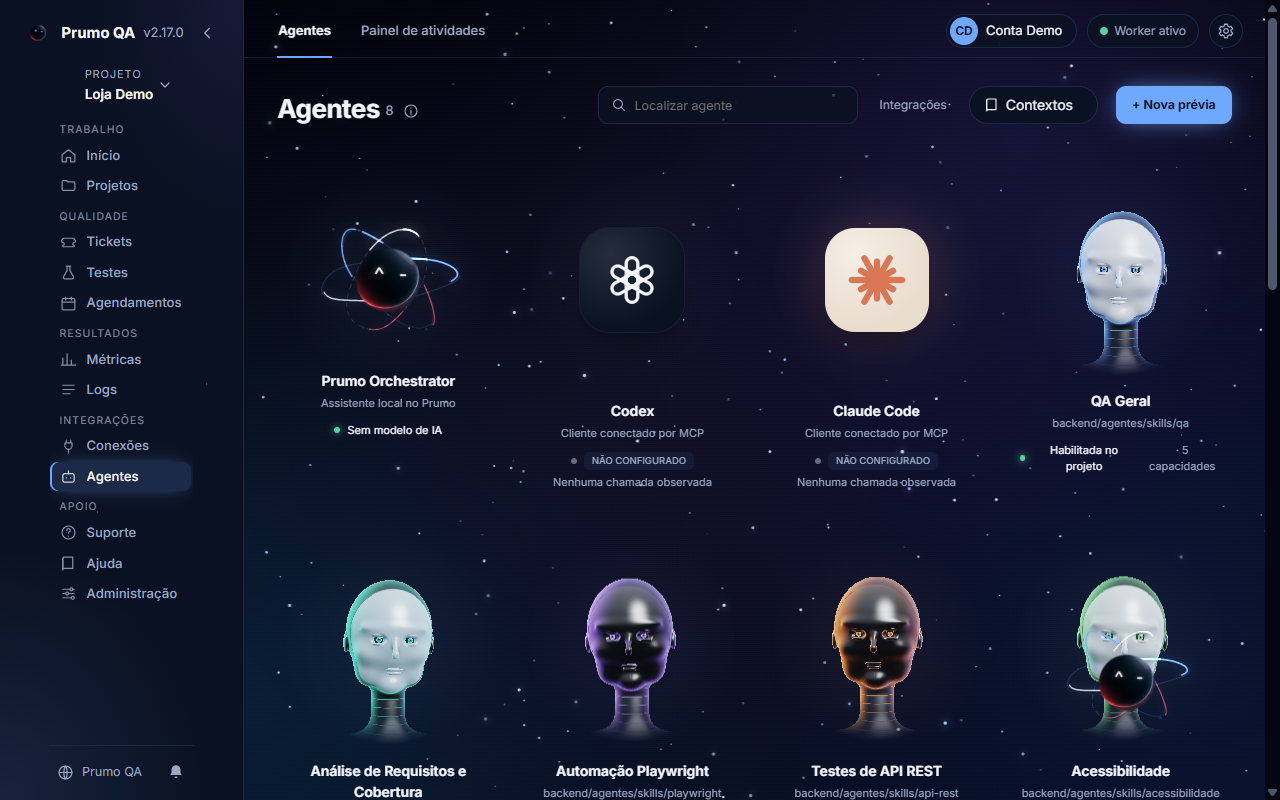
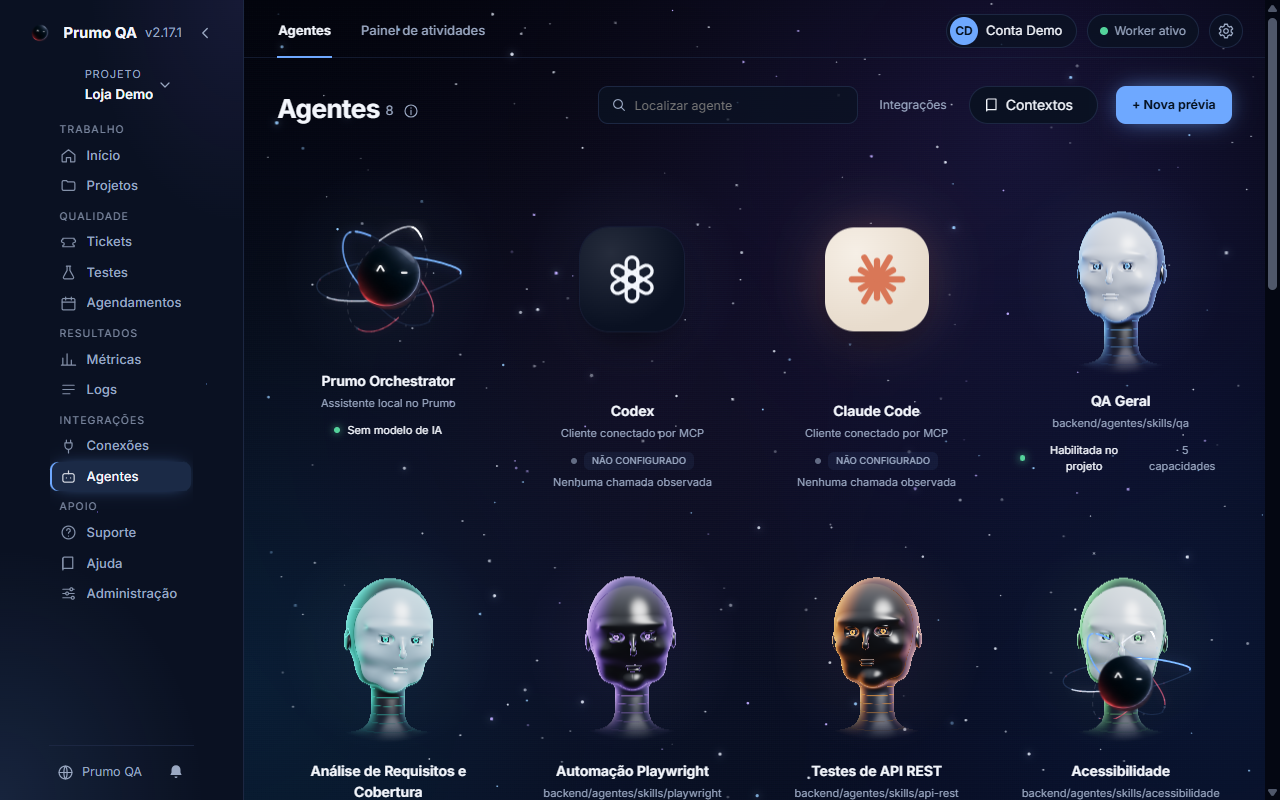
fix(2.17.1): publicação do site em fila, sem falhas nem cancelamentos
- site.yml: publicações em fila (sem cancelar a anterior); sem RENDER_DEPLOY_HOOK_URL falha na hora com o caminho da correção;
  a conferência aceita no ar um commit mais novo da main que contenha o esperado
- multiplataforma.yml: um único disparo do site depois de macOS e Linux
- Ações do CI em Node 24 (checkout v5, setup-node v5, upload-artifact v5, github-script v8)
- Versão, catálogo, RELEASE.md, capturas e site

diff --git a/docs/RELEASE.md b/docs/RELEASE.md
@@ -41,7 +41,7 @@ git push origin vX.Y.Z
 
 ### macOS e Linux (em paralelo ao Windows)
 
-`.github/workflows/multiplataforma.yml` roda na mesma tag, em máquinas macOS e Ubuntu: compila, roda os testes de plataforma (`testes/unitario/backend/aplicativo/multiplataforma.test.mjs` e `aprovacao-multiplataforma.test.mjs`), gera os instaladores (`npm run dist:mac` e `npm run dist:linux`: .dmg para Apple Silicon e Intel, .AppImage e .deb), gera o `.sha256` de cada um, abre o programa empacotado e confere janela e isolamento. Depois espera a release criada pelo fluxo do Windows, anexa os arquivos e dispara o `site.yml` de novo, para o site passar a oferecê-los. Os nomes dos arquivos vêm de `electron-builder.yml` e de `site/instaladores.mjs` e precisam coincidir com `nomeDoInstalador` do aplicativo (há teste).
+`.github/workflows/multiplataforma.yml` roda na mesma tag, em máquinas macOS e Ubuntu: compila, roda os testes de plataforma (`testes/unitario/backend/aplicativo/multiplataforma.test.mjs` e `aprovacao-multiplataforma.test.mjs`), gera os instaladores (`npm run dist:mac` e `npm run dist:linux`: .dmg para Apple Silicon e Intel, .AppImage e .deb), gera o `.sha256` de cada um, abre o programa empacotado e confere janela e isolamento. Depois espera a release criada pelo fluxo do Windows e anexa os arquivos. Quando as duas plataformas terminam (mesmo que uma falhe), um único job dispara o `site.yml` de novo, para o site passar a oferecê-los. Os nomes dos arquivos vêm de `electron-builder.yml` e de `site/instaladores.mjs` e precisam coincidir com `nomeDoInstalador` do aplicativo (há teste).
 
 Se o fluxo de macOS ou Linux falhar, a versão continua publicada para Windows e o site omite os instaladores que não estão na release (nunca anuncia um arquivo ausente). Corrija e rode o fluxo de novo pelo `workflow_dispatch` na tag; os arquivos são anexados com `--clobber`.
 
@@ -53,7 +53,9 @@ O build do site no Render roda `node site/construir-no-render.mjs` (`render.yaml
 
 ## Pré-requisito: publicação do site
 
-O fluxo do site publica no Render pelo **Deploy Hook**, guardado no segredo `RENDER_DEPLOY_HOOK_URL` do repositório (Render › `prumo-qa-docs` › Settings › Deploy Hook; GitHub › Settings › Secrets and variables › Actions). Sem ele, publique pelo Render em Manual Deploy › Deploy latest commit (ou pelo conector do Render). O fluxo aguarda e exige o commit exato no `build.txt` e a versão publicada no site; sem essa prova fica vermelho. Gerar as páginas não comprova publicação.
+O fluxo do site publica no Render pelo **Deploy Hook**, guardado no segredo `RENDER_DEPLOY_HOOK_URL` do repositório (Render › `prumo-qa-docs` › Settings › Deploy Hook; GitHub › Settings › Secrets and variables › Actions). Cadastrado em 16/10/2026. Sem ele, o fluxo falha na hora com a explicação; publique pelo Render em Manual Deploy › Deploy latest commit (ou pelo conector do Render). O fluxo aguarda no `build.txt` este commit (ou um mais novo da `main` que o contenha) e a versão publicada no site; sem essa prova fica vermelho. Gerar as páginas não comprova publicação.
+
+As publicações do site rodam em fila, uma por vez (`concurrency` sem cancelamento): o push do commit da versão, o disparo do Windows depois do catálogo e o de macOS/Linux depois dos instaladores terminam cada um verde, sem um cancelar o outro.
 
 ## Conferência final
 

diff --git a/README.md b/README.md
@@ -4,7 +4,7 @@ Eu sou a Ana Paula Lysyk, trabalho com QA e criei o Prumo para juntar num lugar 
 
 Eu preferi que nada saísse do seu computador sem você ver. Qase, Jira e GitHub conectam só para leitura. A escrita é ligada por projeto e por serviço, e cada envio mostra uma prévia e pede a confirmação nativa do sistema. A IA (Claude Code ou Codex, por MCP) lê o contexto e propõe casos, bugs e aprendizados como rascunho. Executar um teste sempre passa pela sua aprovação.
 
-Versão atual 2.17.0; releases publicadas em [github.com/AnaPLysyk/Prumo-Qa/releases](https://github.com/AnaPLysyk/Prumo-Qa/releases). O instalador não é assinado: confira o SHA-256 publicado junto. [Site e documentação pública](https://prumo-qa-docs.onrender.com) · [catálogo de versões](docs/catalogo/versoes.json) · [registros antigos](docs/historico/).
+Versão atual 2.17.1; releases publicadas em [github.com/AnaPLysyk/Prumo-Qa/releases](https://github.com/AnaPLysyk/Prumo-Qa/releases). O instalador não é assinado: confira o SHA-256 publicado junto. [Site e documentação pública](https://prumo-qa-docs.onrender.com) · [catálogo de versões](docs/catalogo/versoes.json) · [registros antigos](docs/historico/).
 
 ## Estado atual
 
